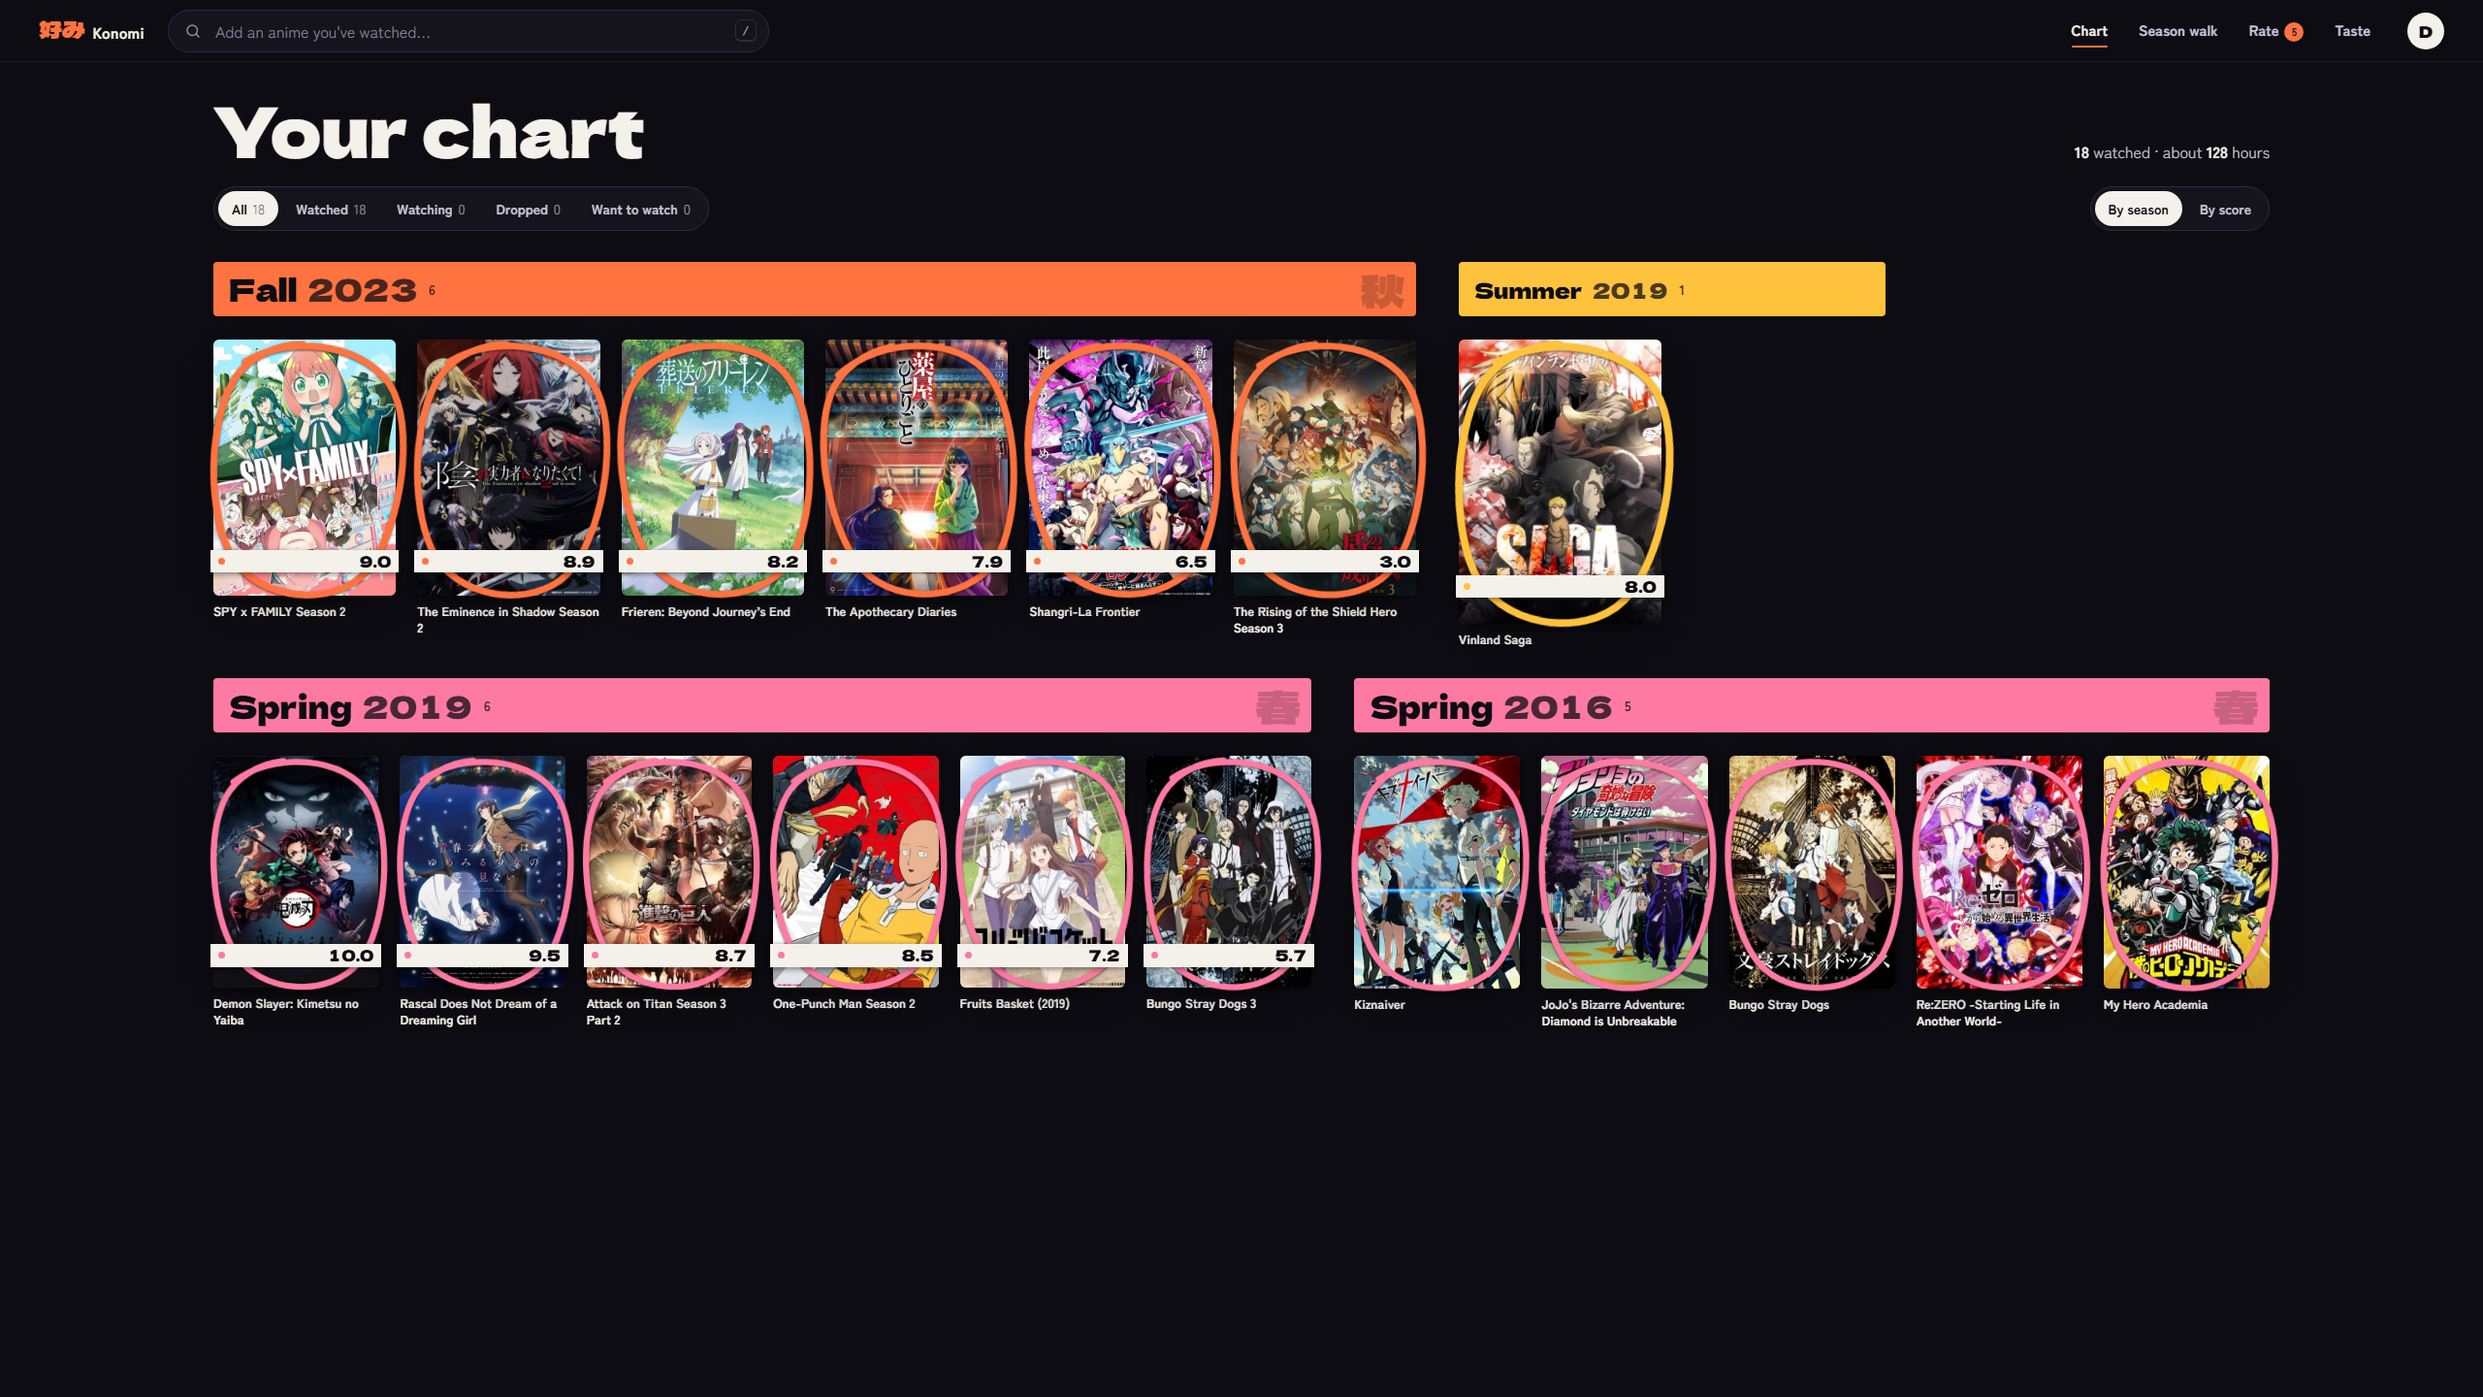
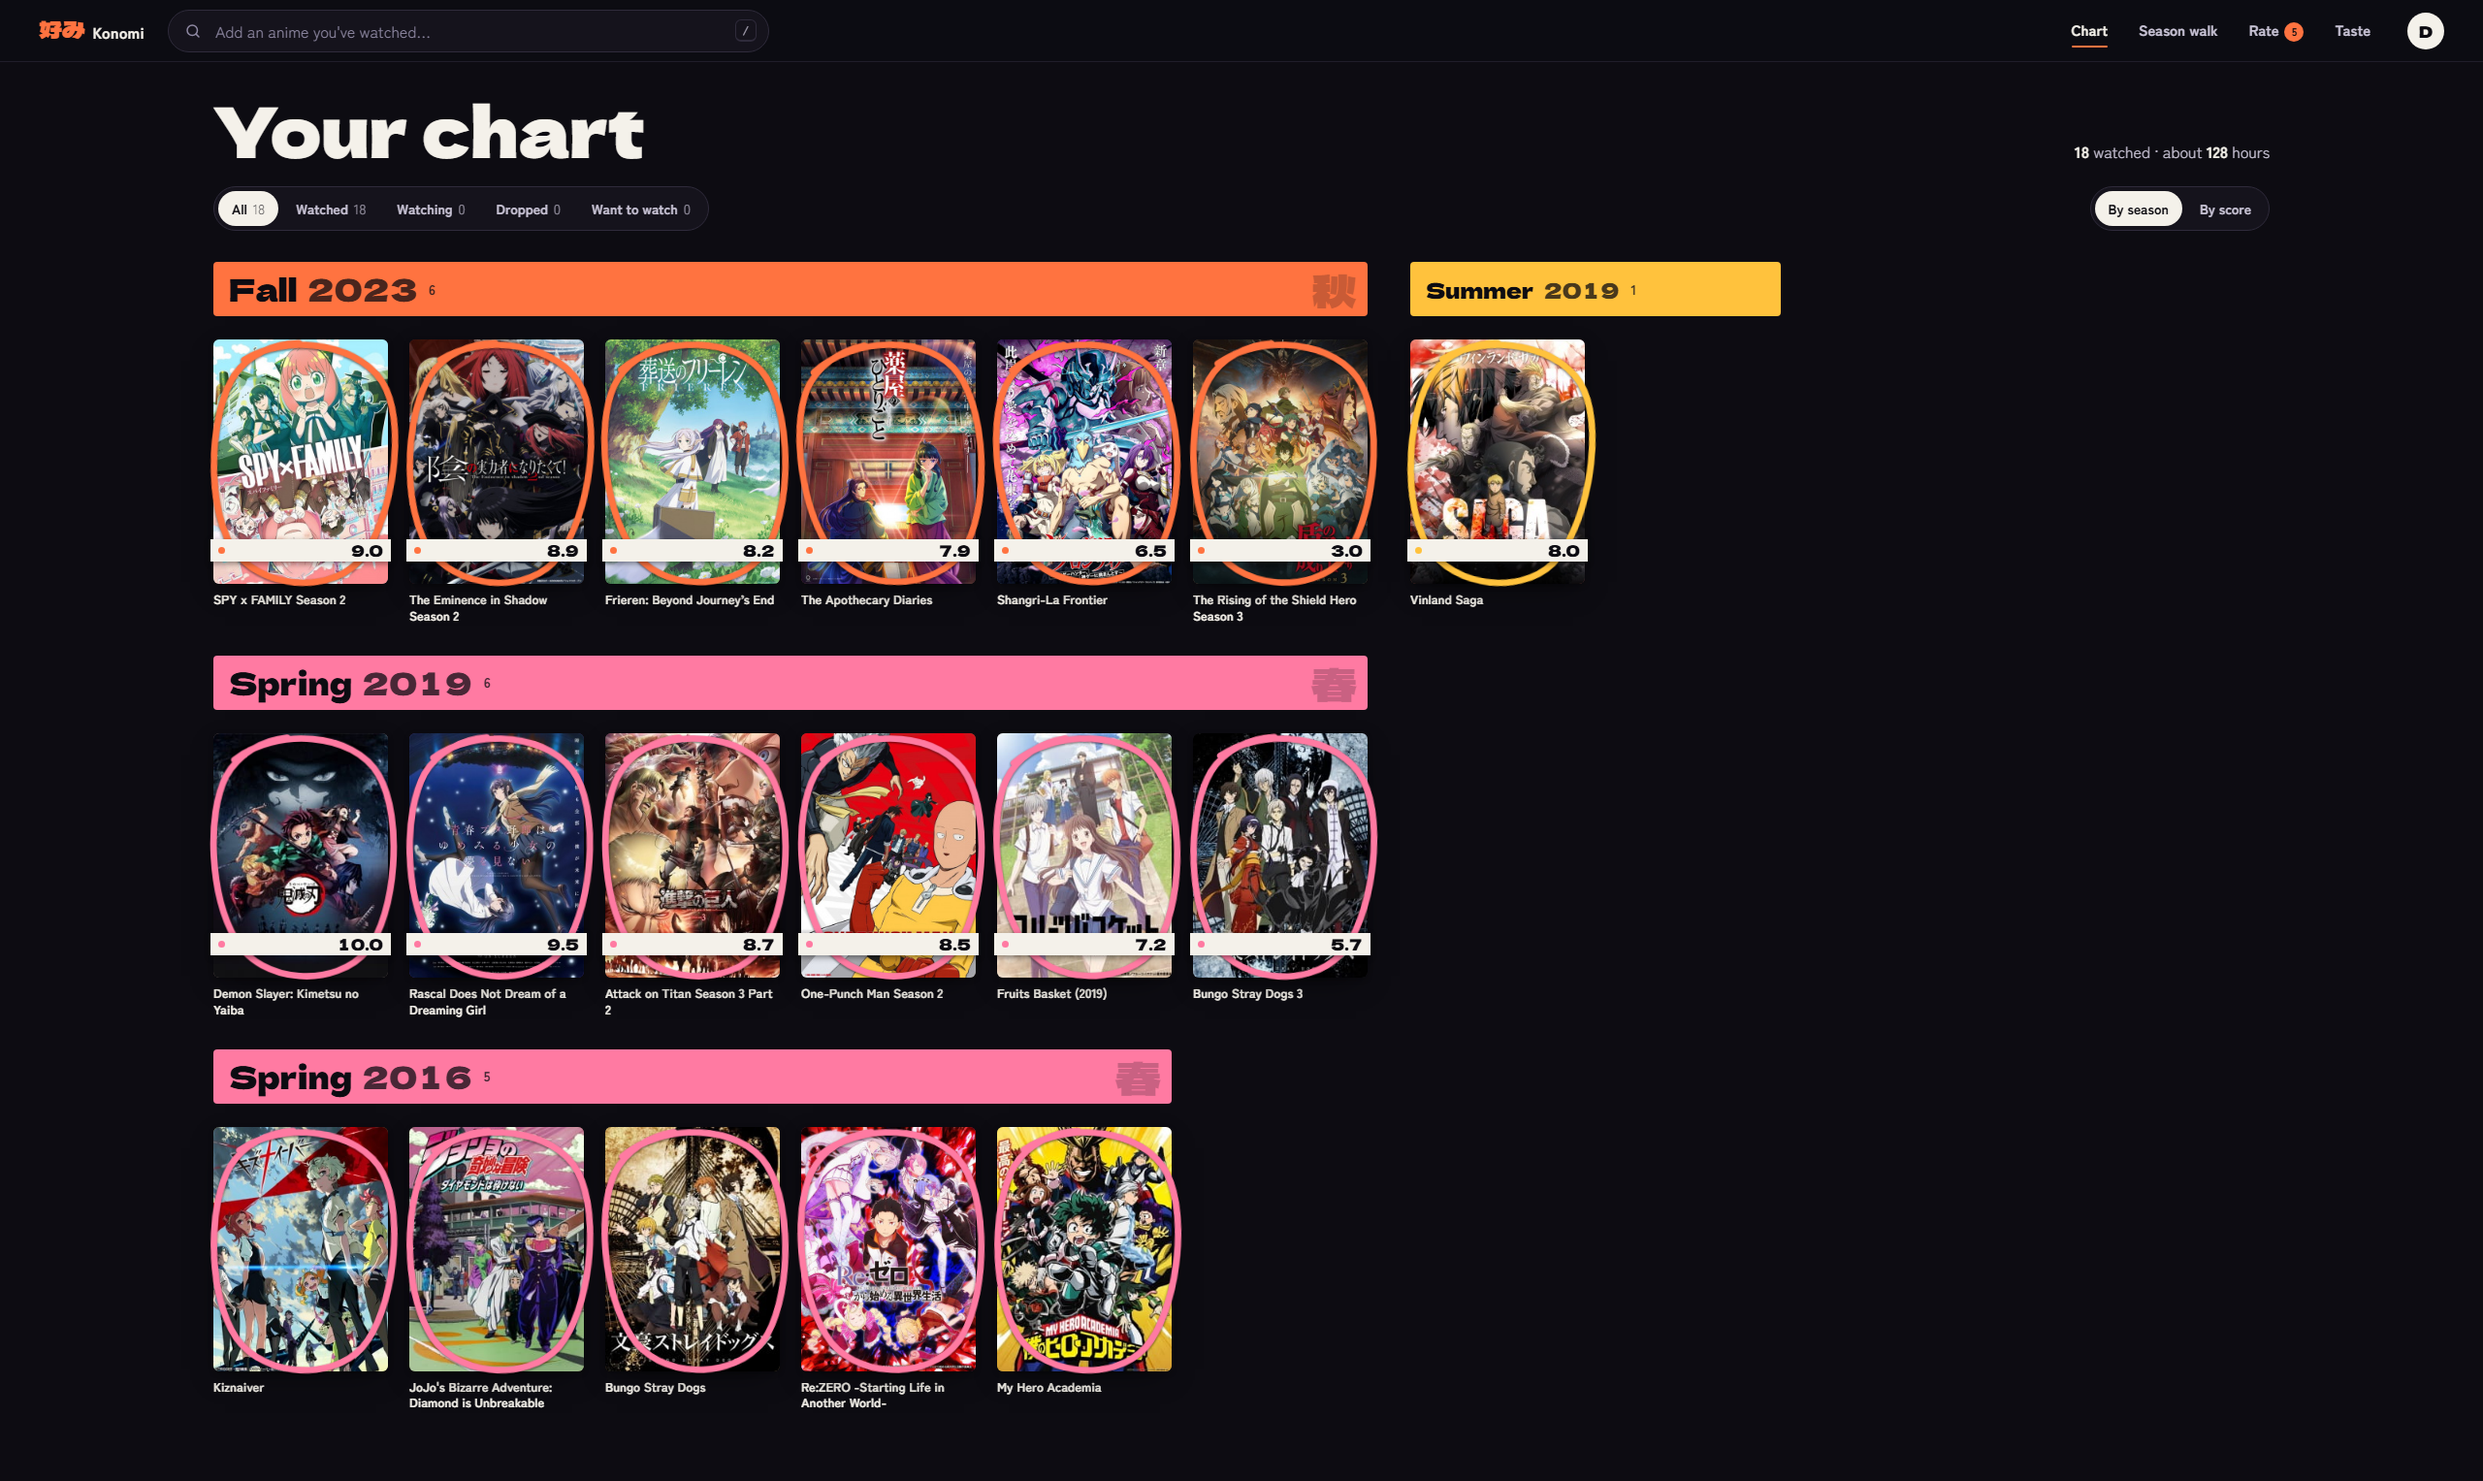
One tile size across chart bands; wrap galaxy labels on phones

diff --git a/web/src/components/seasonband.css b/web/src/components/seasonband.css
@@ -25,15 +25,17 @@
 .band-neutral .band-aside .btn:hover { background: var(--ink-3); }
 
 .bands { display: flex; flex-wrap: wrap; gap: 0 clamp(20px, 2.4vw, 44px); align-items: flex-start; }
-.bands > .band { flex: var(--n, 4) 1 calc(var(--n, 4) * 150px); max-width: min(100%, calc(var(--n, 4) * 200px + 40px)); }
+.bands { --tile: clamp(132px, 9.8vw, 180px); --gx: clamp(12px, 1.4vw, 22px); }
+/* One tile size across every band; a band is exactly as wide as its titles, like a printed seasonal chart. */
+.bands > .band { flex: 0 0 auto; width: min(100%, calc(var(--n, 4) * var(--tile) + (var(--n, 4) - 1) * var(--gx))); }
 .bands > .band + .band { margin-top: 0; }
-.bands > .band-wide { flex-basis: 100%; max-width: 100%; }
-.bands > .band:not(.band-wide) .grid { grid-template-columns: var(--cols, repeat(4, minmax(0, 1fr))); }
+.bands > .band-wide { width: 100%; }
+.bands > .band:not(.band-wide) .grid { grid-template-columns: var(--cols, repeat(4, minmax(0, 1fr))); column-gap: var(--gx); }
 @media (max-width: 700px) {
-  .bands > .band { flex-basis: 100%; max-width: 100%; }
+  .bands > .band { width: 100%; }
   .bands > .band:not(.band-wide) .grid { grid-template-columns: repeat(auto-fill, minmax(clamp(98px, 28vw, 150px), 1fr)); }
 }
-.bands > .band-wide .grid { grid-template-columns: repeat(auto-fill, minmax(clamp(96px, 8vw, 140px), 1fr)); }
+.bands > .band-wide .grid { grid-template-columns: repeat(auto-fill, var(--tile)); column-gap: var(--gx); }
 .grid {
   display: grid; gap: clamp(14px, 1.6vw, 26px) clamp(12px, 1.4vw, 22px);
   grid-template-columns: repeat(auto-fill, minmax(clamp(98px, 10.5vw, 158px), 1fr));

diff --git a/web/src/features/taste/taste.css b/web/src/features/taste/taste.css
@@ -76,6 +76,6 @@
   padding: 3px 10px; border-radius: var(--r-pill); background: rgb(13 12 18 / 0.78); border: 1px solid currentColor; user-select: none;
 }
 @media (max-width: 640px) {
-  .g-label { font-size: 11px; padding: 2px 8px; }
+  .g-label { font-size: 11px; padding: 2px 8px; max-width: 42vw; white-space: normal; text-align: center; }
   .g-overlay { background: linear-gradient(to bottom, rgb(13 12 18 / 0.88) 70%, transparent); padding-bottom: var(--s5); }
 }
